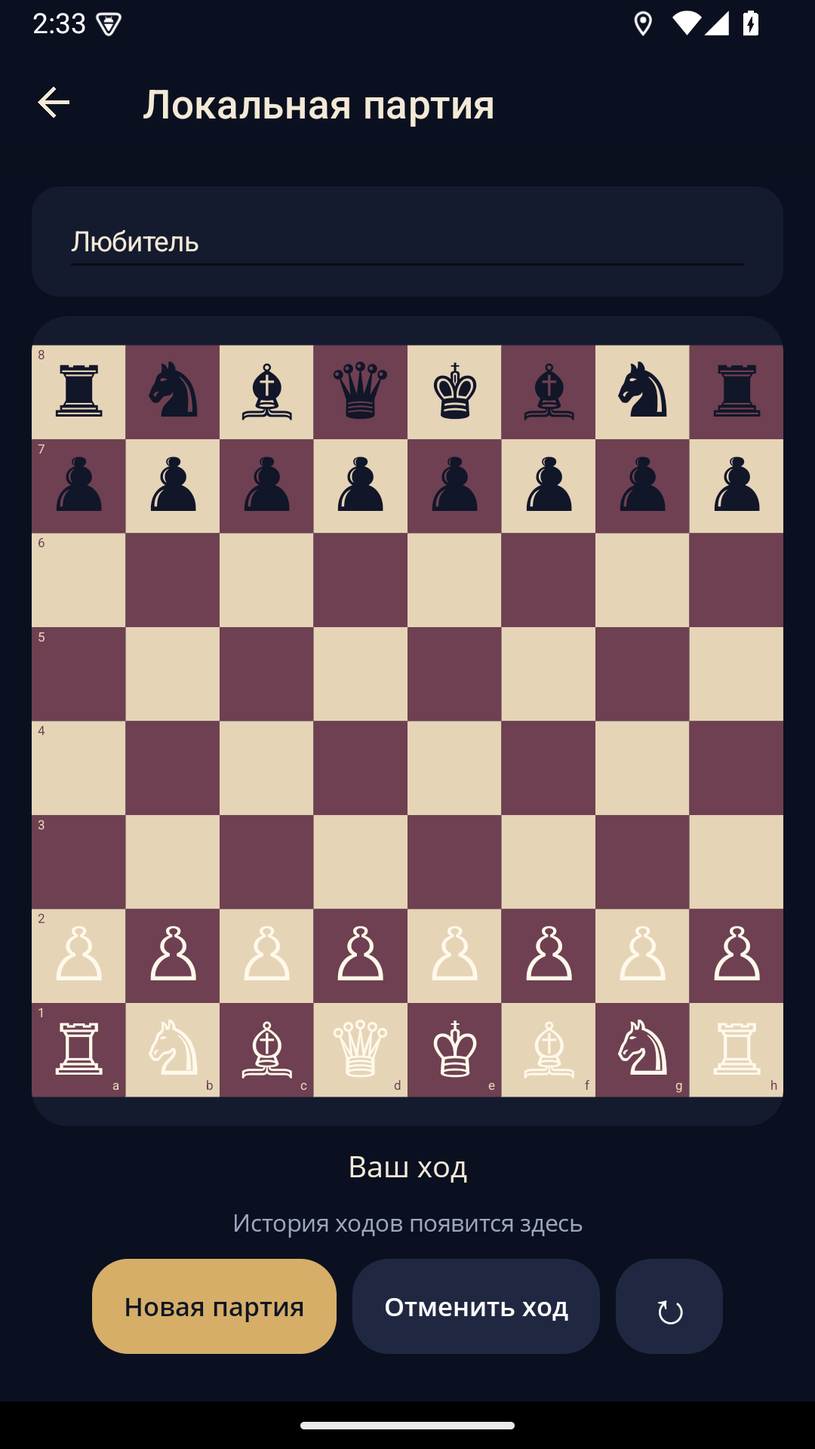
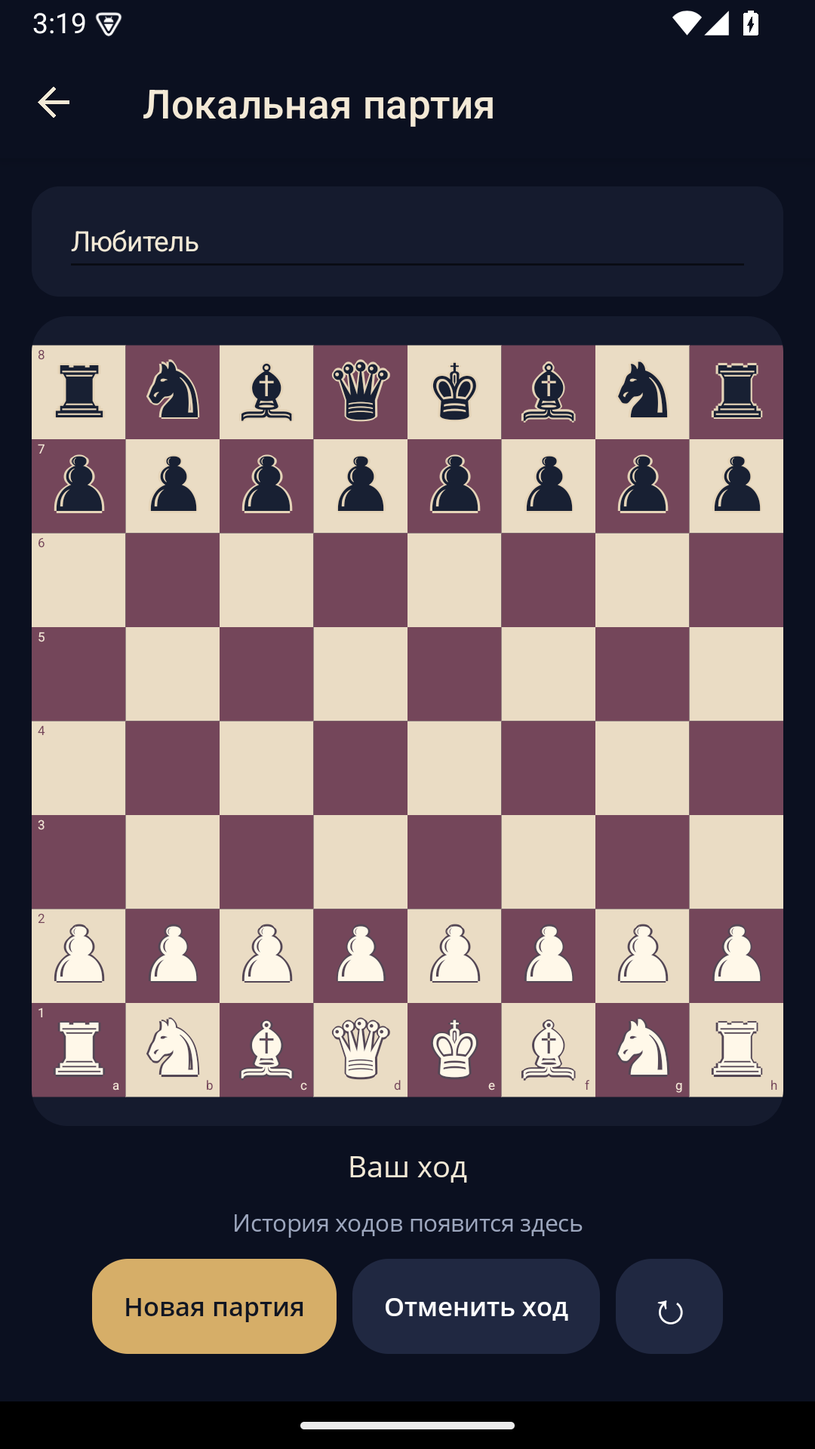
feat: add selectable piece and board themes

diff --git a/src/VelvetChess.App/Controls/ChessBoardView.cs b/src/VelvetChess.App/Controls/ChessBoardView.cs
@@ -12,6 +12,8 @@ public sealed class ChessBoardView : GraphicsView
     public ChessBoard Board { get; private set; } = new();
     public bool Flipped { get => _drawable.Flipped; set { _drawable.Flipped = value; Invalidate(); } }
     public bool ShowCoordinates { get => _drawable.ShowCoordinates; set { _drawable.ShowCoordinates = value; Invalidate(); } }
+    public PieceTheme PieceTheme { get => _drawable.PieceTheme; set { _drawable.PieceTheme = value; Invalidate(); } }
+    public BoardTheme BoardTheme { get => _drawable.BoardTheme; set { _drawable.BoardTheme = value; Invalidate(); } }
     public bool InputEnabled { get; set; } = true;
     public event EventHandler<Move>? MoveRequested;
 
@@ -25,6 +27,13 @@ public sealed class ChessBoardView : GraphicsView
     }
 
     public void SetBoard(ChessBoard board) { Board = board; ClearSelection(); }
+    public void SetAppearance(PieceTheme pieces, BoardTheme board)
+    {
+        _drawable.PieceTheme = pieces;
+        _drawable.BoardTheme = board;
+        Invalidate();
+    }
+
     public void ClearSelection() { _selected = -1; _moves = []; Invalidate(); }
 
     private void OnTap(object? sender, TouchEventArgs args)
@@ -49,49 +58,118 @@ public sealed class ChessBoardView : GraphicsView
 
     private sealed class BoardDrawable(Func<ChessBoard> board, Func<int> selected, Func<IReadOnlyList<Move>> moves) : IDrawable
     {
+        private sealed record Palette(string Light, string Dark, string Frame, string Coordinate, string Selection, string Move, string Capture);
+
+        private static readonly IReadOnlyDictionary<BoardTheme, Palette> Palettes = new Dictionary<BoardTheme, Palette>
+        {
+            [BoardTheme.Velvet] = new("#EADCC4", "#74465A", "#151B2E", "#F4E9D8", "#E7B95B", "#28364A", "#A51C30"),
+            [BoardTheme.Walnut] = new("#F0D9B5", "#B58863", "#3A251B", "#FFF1D6", "#F6C453", "#34495E", "#A93226"),
+            [BoardTheme.Forest] = new("#E8EDCF", "#769656", "#24342A", "#F4F7E8", "#F2C94C", "#29483A", "#A33C35"),
+            [BoardTheme.Ocean] = new("#DCEAF2", "#5C86A3", "#182A3A", "#F1F8FC", "#FFD166", "#244A65", "#B33A4A"),
+            [BoardTheme.Graphite] = new("#D8DAE0", "#666C79", "#202329", "#F5F6F8", "#E0B857", "#343A46", "#A63B4B")
+        };
+
         public bool Flipped { get; set; }
         public bool ShowCoordinates { get; set; } = true;
-        private static readonly Color Light = Color.FromArgb("#E6D4B7");
-        private static readonly Color Dark = Color.FromArgb("#6E4051");
+        public PieceTheme PieceTheme { get; set; } = PieceTheme.Tournament;
+        public BoardTheme BoardTheme { get; set; } = BoardTheme.Velvet;
 
         public void Draw(ICanvas canvas, RectF dirtyRect)
         {
+            var palette = Palettes.GetValueOrDefault(BoardTheme, Palettes[BoardTheme.Velvet]);
             var side = Math.Min(dirtyRect.Width, dirtyRect.Height); var cell = side / 8;
             var ox = (dirtyRect.Width - side) / 2; var oy = (dirtyRect.Height - side) / 2;
-            canvas.FillColor = Color.FromArgb("#151B2E"); canvas.FillRectangle(dirtyRect);
+            canvas.FillColor = Color.FromArgb(palette.Frame); canvas.FillRectangle(dirtyRect);
             for (var shownRank = 0; shownRank < 8; shownRank++)
             for (var shownFile = 0; shownFile < 8; shownFile++)
             {
                 var file = Flipped ? 7 - shownFile : shownFile; var rank = Flipped ? shownRank : 7 - shownRank;
                 var square = rank * 8 + file; var rect = new RectF(ox + shownFile * cell, oy + shownRank * cell, cell, cell);
-                canvas.FillColor = (file + rank) % 2 == 0 ? Dark : Light; canvas.FillRectangle(rect);
-                if (square == selected()) { canvas.FillColor = Color.FromArgb("#99E2B85A"); canvas.FillRectangle(rect); }
+                var isDark = (file + rank) % 2 == 0;
+                canvas.FillColor = Color.FromArgb(isDark ? palette.Dark : palette.Light); canvas.FillRectangle(rect);
+                if (square == selected()) { canvas.FillColor = Color.FromArgb($"99{palette.Selection[1..]}"); canvas.FillRectangle(rect); }
                 if (moves().Any(m => m.To == square))
                 {
-                    canvas.FillColor = board()[square].IsNone ? Color.FromArgb("#88303A49") : Color.FromArgb("#88A51C30");
-                    canvas.FillCircle(rect.Center, board()[square].IsNone ? cell * .12f : cell * .42f);
+                    var occupied = !board()[square].IsNone;
+                    canvas.FillColor = Color.FromArgb($"88{(occupied ? palette.Capture : palette.Move)[1..]}");
+                    canvas.FillCircle(rect.Center, occupied ? cell * .42f : cell * .12f);
                 }
                 var piece = board()[square];
-                if (!piece.IsNone)
-                {
-                    canvas.FontColor = piece.Color == PieceColor.White ? Color.FromArgb("#FFF9EB") : Color.FromArgb("#111629");
-                    canvas.FontSize = cell * .76f; canvas.Font = new Microsoft.Maui.Graphics.Font("ChessPieces");
-                    canvas.DrawString(Symbol(piece), rect, HorizontalAlignment.Center, VerticalAlignment.Center);
-                }
-                if (ShowCoordinates)
-                {
-                    canvas.Font = new Microsoft.Maui.Graphics.Font("OpenSansSemibold");
-                    canvas.FontSize = cell * .14f;
-                    canvas.FontColor = (file + rank) % 2 == 0 ? Light : Dark;
-                    if (shownFile == 0)
-                        canvas.DrawString((rank + 1).ToString(), rect.X + 3, rect.Y + 1, cell - 5, cell, HorizontalAlignment.Left, VerticalAlignment.Top);
-                    if (shownRank == 7)
-                        canvas.DrawString(((char)('a' + file)).ToString(), rect.X + 2, rect.Y, cell - 5, cell - 2, HorizontalAlignment.Right, VerticalAlignment.Bottom);
-                }
+                if (!piece.IsNone) DrawPiece(canvas, piece, rect, cell);
+                if (ShowCoordinates) DrawCoordinates(canvas, rect, cell, file, rank, shownFile, shownRank, isDark, palette);
             }
         }
 
-        private static string Symbol(Piece piece) => (piece.Color, piece.Type) switch
+        private void DrawPiece(ICanvas canvas, Piece piece, RectF rect, float cell)
+        {
+            var white = piece.Color == PieceColor.White;
+            switch (PieceTheme)
+            {
+                case PieceTheme.Classic:
+                    DrawGlyph(canvas, ClassicSymbol(piece), rect, cell * .76f, white ? "#FFF9EB" : "#111629", "#4A3340", cell * .018f);
+                    break;
+                case PieceTheme.Silhouette:
+                    DrawGlyph(canvas, SolidSymbol(piece.Type), rect, cell * .75f, white ? "#F8F1E4" : "#202637", white ? "#6B5C50" : "#0A0E18", cell * .012f);
+                    break;
+                case PieceTheme.Royal:
+                    canvas.FillColor = Color.FromArgb(white ? "#FFF4D8" : "#1A2440");
+                    canvas.FillCircle(rect.Center, cell * .38f);
+                    canvas.StrokeColor = Color.FromArgb("#C89B45"); canvas.StrokeSize = Math.Max(1, cell * .025f);
+                    canvas.DrawCircle(rect.Center, cell * .38f);
+                    DrawGlyph(canvas, SolidSymbol(piece.Type), rect, cell * .62f, white ? "#7A4F22" : "#E7C576", white ? "#FFF8E7" : "#11182B", cell * .012f);
+                    break;
+                case PieceTheme.Minimal:
+                    canvas.FillColor = Color.FromArgb(white ? "#FAF7F0" : "#202737");
+                    canvas.FillCircle(rect.Center, cell * .35f);
+                    canvas.StrokeColor = Color.FromArgb(white ? "#394152" : "#F1D9A3"); canvas.StrokeSize = Math.Max(1, cell * .022f);
+                    canvas.DrawCircle(rect.Center, cell * .35f);
+                    canvas.Font = new Microsoft.Maui.Graphics.Font("OpenSansSemibold");
+                    canvas.FontSize = cell * .38f; canvas.FontColor = Color.FromArgb(white ? "#283144" : "#F8E7BF");
+                    canvas.DrawString(PieceLetter(piece.Type), rect, HorizontalAlignment.Center, VerticalAlignment.Center);
+                    break;
+                default:
+                    // Both colours use the same solid glyph geometry, giving the set a consistent weight.
+                    DrawGlyph(canvas, SolidSymbol(piece.Type), rect, cell * .77f, white ? "#FFF8E9" : "#182033", white ? "#544755" : "#E5D4B8", cell * .022f);
+                    break;
+            }
+        }
+
+        private static void DrawGlyph(ICanvas canvas, string glyph, RectF rect, float size, string fill, string outline, float offset)
+        {
+            canvas.Font = new Microsoft.Maui.Graphics.Font("ChessPieces"); canvas.FontSize = size;
+            if (offset > 0)
+            {
+                canvas.FontColor = Color.FromArgb(outline);
+                foreach (var (dx, dy) in new[] { (-offset, 0f), (offset, 0f), (0f, -offset), (0f, offset) })
+                    canvas.DrawString(glyph, new RectF(rect.X + dx, rect.Y + dy, rect.Width, rect.Height), HorizontalAlignment.Center, VerticalAlignment.Center);
+            }
+            canvas.FontColor = Color.FromArgb(fill);
+            canvas.DrawString(glyph, rect, HorizontalAlignment.Center, VerticalAlignment.Center);
+        }
+
+        private static void DrawCoordinates(ICanvas canvas, RectF rect, float cell, int file, int rank, int shownFile, int shownRank, bool isDark, Palette palette)
+        {
+            canvas.Font = new Microsoft.Maui.Graphics.Font("OpenSansSemibold"); canvas.FontSize = cell * .14f;
+            canvas.FontColor = Color.FromArgb(isDark ? palette.Coordinate : palette.Dark);
+            if (shownFile == 0)
+                canvas.DrawString((rank + 1).ToString(), rect.X + 3, rect.Y + 1, cell - 5, cell, HorizontalAlignment.Left, VerticalAlignment.Top);
+            if (shownRank == 7)
+                canvas.DrawString(((char)('a' + file)).ToString(), rect.X + 2, rect.Y, cell - 5, cell - 2, HorizontalAlignment.Right, VerticalAlignment.Bottom);
+        }
+
+        private static string SolidSymbol(PieceType type) => type switch
+        {
+            PieceType.King => "♚", PieceType.Queen => "♛", PieceType.Rook => "♜", PieceType.Bishop => "♝",
+            PieceType.Knight => "♞", PieceType.Pawn => "♟", _ => ""
+        };
+
+        private static string PieceLetter(PieceType type) => type switch
+        {
+            PieceType.King => "K", PieceType.Queen => "Q", PieceType.Rook => "R", PieceType.Bishop => "B",
+            PieceType.Knight => "N", PieceType.Pawn => "P", _ => ""
+        };
+
+        private static string ClassicSymbol(Piece piece) => (piece.Color, piece.Type) switch
         {
             (PieceColor.White, PieceType.King) => "♔", (PieceColor.White, PieceType.Queen) => "♕", (PieceColor.White, PieceType.Rook) => "♖",
             (PieceColor.White, PieceType.Bishop) => "♗", (PieceColor.White, PieceType.Knight) => "♘", (PieceColor.White, PieceType.Pawn) => "♙",

diff --git a/src/VelvetChess.App/Pages/SettingsPage.cs b/src/VelvetChess.App/Pages/SettingsPage.cs
@@ -1,4 +1,6 @@
 using VelvetChess.App.Services;
+using VelvetChess.App.Controls;
+using VelvetChess.Core.Model;
 
 namespace VelvetChess.App.Pages;
 
@@ -10,7 +12,25 @@ public sealed class SettingsPage : ContentPage
     {
         BackgroundColor = Color.FromArgb("#0B1020");
         _state = state; Title = "Настройки";
-        var coordinates = SettingSwitch("Координаты доски", "Показывать буквы и цифры у полей", state.ShowCoordinates, value => state.ShowCoordinates = value);
+        var preview = new ChessBoardView { HeightRequest = 285, InputEnabled = false, ShowCoordinates = state.ShowCoordinates };
+        preview.SetAppearance(state.PieceTheme, state.BoardTheme);
+        var pieceDescription = new Label { Text = AppearanceCatalog.PieceDescription(state.PieceTheme), FontSize = 12, TextColor = Color.FromArgb("#9DA7BE") };
+        var piecePicker = AppearancePicker("Набор фигур", AppearanceCatalog.PieceNames, (int)state.PieceTheme);
+        var boardPicker = AppearancePicker("Оформление доски", AppearanceCatalog.BoardNames, (int)state.BoardTheme);
+        piecePicker.SelectedIndexChanged += (_, _) =>
+        {
+            if (piecePicker.SelectedIndex < 0) return;
+            state.PieceTheme = (PieceTheme)piecePicker.SelectedIndex;
+            pieceDescription.Text = AppearanceCatalog.PieceDescription(state.PieceTheme);
+            preview.PieceTheme = state.PieceTheme;
+        };
+        boardPicker.SelectedIndexChanged += (_, _) =>
+        {
+            if (boardPicker.SelectedIndex < 0) return;
+            state.BoardTheme = (BoardTheme)boardPicker.SelectedIndex;
+            preview.BoardTheme = state.BoardTheme;
+        };
+        var coordinates = SettingSwitch("Координаты доски", "Показывать буквы и цифры у полей", state.ShowCoordinates, value => { state.ShowCoordinates = value; preview.ShowCoordinates = value; });
         var haptics = SettingSwitch("Тактильный отклик", "Короткий отклик после хода", state.HapticsEnabled, value => state.HapticsEnabled = value);
         var confirmation = SettingSwitch("Подтверждать новую партию", "Защита от случайной потери текущей позиции", state.ConfirmNewGame, value => state.ConfirmNewGame = value);
         var reset = new Button { Text = "Сбросить прогресс", BackgroundColor = Color.FromArgb("#6E183E"), TextColor = Colors.White };
@@ -27,6 +47,10 @@ public sealed class SettingsPage : ContentPage
         Content = new ScrollView { Content = new VerticalStackLayout { Padding = 20, Spacing = 14, Children =
         {
             new Label { Text = "Игра", FontSize = 25, FontFamily = "OpenSansSemibold" },
+            new Label { Text = "Оформление", TextColor = Color.FromArgb("#D6AE68"), CharacterSpacing = 1.2, FontSize = 12 },
+            new Border { StrokeThickness = 0, StrokeShape = new Microsoft.Maui.Controls.Shapes.RoundRectangle { CornerRadius = 18 }, Content = preview },
+            new Border { Padding = new Thickness(16,8), BackgroundColor = Color.FromArgb("#151B2E"), StrokeThickness = 0, StrokeShape = new Microsoft.Maui.Controls.Shapes.RoundRectangle { CornerRadius = 16 }, Content = new VerticalStackLayout { Spacing = 2, Children = { piecePicker, pieceDescription } } },
+            new Border { Padding = new Thickness(16,8), BackgroundColor = Color.FromArgb("#151B2E"), StrokeThickness = 0, StrokeShape = new Microsoft.Maui.Controls.Shapes.RoundRectangle { CornerRadius = 16 }, Content = boardPicker },
             coordinates, haptics, confirmation,
             new Label { Text = "Данные", FontSize = 25, FontFamily = "OpenSansSemibold", Margin = new Thickness(0,12,0,0) },
             new Border { Padding = 16, BackgroundColor = Color.FromArgb("#151B2E"), StrokeThickness = 0, StrokeShape = new Microsoft.Maui.Controls.Shapes.RoundRectangle { CornerRadius = 16 }, Content = new Label { Text = "Версия 1.0 работает офлайн. Персональные данные, реклама и аналитические идентификаторы не собираются. Партии и прогресс хранятся только на этом устройстве.", TextColor = Color.FromArgb("#9DA7BE"), LineHeight = 1.35 } },
@@ -35,6 +59,14 @@ public sealed class SettingsPage : ContentPage
             reset,
             new Label { Text = $"Шахматы Velvet · версия {version}\nШахматные задачи: Lichess CC0\nФигуры: Noto Sans Symbols 2 (OFL 1.1)", FontSize = 12, TextColor = Color.FromArgb("#69738A"), HorizontalTextAlignment = TextAlignment.Center, Margin = new Thickness(0,18) }
         }}};
+    }
+
+    private static Picker AppearancePicker(string title, IReadOnlyList<string> names, int selected)
+    {
+        var picker = new Picker { Title = title, TextColor = Color.FromArgb("#F3E9D6"), TitleColor = Color.FromArgb("#9DA7BE"), FontFamily = "OpenSansSemibold" };
+        foreach (var name in names) picker.Items.Add(name);
+        picker.SelectedIndex = Math.Clamp(selected, 0, names.Count - 1);
+        return picker;
     }
 
     private async Task OpenExternalAsync(string uri)

diff --git a/tests/VelvetChess.Core.Tests/UserStateTests.cs b/tests/VelvetChess.Core.Tests/UserStateTests.cs
@@ -45,7 +45,9 @@ public sealed class UserStateTests
             Difficulty = Difficulty.Expert,
             ShowCoordinates = false,
             HapticsEnabled = false,
-            ConfirmNewGame = false
+            ConfirmNewGame = false,
+            PieceTheme = PieceTheme.Royal,
+            BoardTheme = BoardTheme.Forest
         };
         state.RecordFinishedGame(new(GameOutcome.Checkmate, PieceColor.White));
         state.RecordFinishedGame(new(GameOutcome.Stalemate));
@@ -57,6 +59,7 @@ public sealed class UserStateTests
         Assert.Empty(state.CompletedPuzzles);
         Assert.Equal(Difficulty.Expert, state.Difficulty);
         Assert.False(state.ShowCoordinates); Assert.False(state.HapticsEnabled); Assert.False(state.ConfirmNewGame);
+        Assert.Equal(PieceTheme.Royal, state.PieceTheme); Assert.Equal(BoardTheme.Forest, state.BoardTheme);
     }
 
     [Fact]
@@ -65,9 +68,11 @@ public sealed class UserStateTests
         var memory = new MemoryStore();
         memory.SetInt("stats.games.v1", -3); memory.SetInt("stats.wins.v1", 99); memory.SetInt("stats.draws.v1", 99);
         memory.SetInt("game.difficulty.v1", 99);
+        memory.SetInt("settings.pieceTheme.v1", 99); memory.SetInt("settings.boardTheme.v1", -4);
         var state = new UserStateStore(memory);
         Assert.Equal((0, 0, 0), (state.GamesPlayed, state.Wins, state.Draws));
         Assert.Equal(Difficulty.Expert, state.Difficulty);
+        Assert.Equal(PieceTheme.Minimal, state.PieceTheme); Assert.Equal(BoardTheme.Velvet, state.BoardTheme);
     }
 
     private sealed class MemoryStore : IKeyValueStore

diff --git a/src/VelvetChess.Core/Persistence/UserStateStore.cs b/src/VelvetChess.Core/Persistence/UserStateStore.cs
@@ -17,6 +17,8 @@ public sealed class UserStateStore(IKeyValueStore storage)
     private const string CoordinatesKey = "settings.coordinates.v1";
     private const string HapticsKey = "settings.haptics.v1";
     private const string ConfirmNewGameKey = "settings.confirmNewGame.v1";
+    private const string PieceThemeKey = "settings.pieceTheme.v1";
+    private const string BoardThemeKey = "settings.boardTheme.v1";
 
     public Difficulty Difficulty
     {
@@ -27,6 +29,16 @@ public sealed class UserStateStore(IKeyValueStore storage)
     public bool ShowCoordinates { get => storage.GetBool(CoordinatesKey, true); set => storage.SetBool(CoordinatesKey, value); }
     public bool HapticsEnabled { get => storage.GetBool(HapticsKey, true); set => storage.SetBool(HapticsKey, value); }
     public bool ConfirmNewGame { get => storage.GetBool(ConfirmNewGameKey, true); set => storage.SetBool(ConfirmNewGameKey, value); }
+    public PieceTheme PieceTheme
+    {
+        get => (PieceTheme)Math.Clamp(storage.GetInt(PieceThemeKey, (int)PieceTheme.Tournament), 0, 4);
+        set => storage.SetInt(PieceThemeKey, Math.Clamp((int)value, 0, 4));
+    }
+    public BoardTheme BoardTheme
+    {
+        get => (BoardTheme)Math.Clamp(storage.GetInt(BoardThemeKey, (int)BoardTheme.Velvet), 0, 4);
+        set => storage.SetInt(BoardThemeKey, Math.Clamp((int)value, 0, 4));
+    }
     public bool HasSavedGame => !string.IsNullOrWhiteSpace(storage.GetString(SavedMovesKey));
     public int GamesPlayed => Math.Max(0, storage.GetInt(GamesKey));
     public int Wins => Math.Clamp(storage.GetInt(WinsKey), 0, GamesPlayed);

diff --git a/src/VelvetChess.App/Pages/PuzzlePlayPage.cs b/src/VelvetChess.App/Pages/PuzzlePlayPage.cs
@@ -22,6 +22,7 @@ public sealed class PuzzlePlayPage : ContentPage, IQueryAttributable
         BackgroundColor = Color.FromArgb("#0B1020");
         _repository = repository; _state = state; Title = "Решение задачи";
         _board.ShowCoordinates = state.ShowCoordinates;
+        _board.SetAppearance(state.PieceTheme, state.BoardTheme);
         _board.MoveRequested += OnMove;
         _hint.Clicked += async (_, _) => { if (_session is not null) await DisplayAlert("Подсказка", _session.Puzzle.Hint, "Понятно"); };
         _solution.Clicked += async (_, _) => await RevealSolutionAsync();
@@ -47,7 +48,7 @@ public sealed class PuzzlePlayPage : ContentPage, IQueryAttributable
         if (puzzle is null) { _message.Text = "Задача не найдена."; return; }
         _session = new PuzzleSession(puzzle); _title.Text = puzzle.Title;
         _message.Text = $"Сложность: {puzzle.Rating} · {puzzle.Theme}"; _next.IsVisible = false; _hint.IsVisible = true; _solution.IsVisible = true;
-        _board.InputEnabled = true; _board.ShowCoordinates = _state.ShowCoordinates; _board.Flipped = puzzle.SideToMove == PieceColor.Black; _board.SetBoard(_session.Board);
+        _board.InputEnabled = true; _board.ShowCoordinates = _state.ShowCoordinates; _board.SetAppearance(_state.PieceTheme, _state.BoardTheme); _board.Flipped = puzzle.SideToMove == PieceColor.Black; _board.SetBoard(_session.Board);
     }
 
     private async void OnMove(object? sender, Move move)

diff --git a/src/VelvetChess.App/Pages/GamePage.cs b/src/VelvetChess.App/Pages/GamePage.cs
@@ -26,7 +26,7 @@ public sealed class GamePage : ContentPage
         foreach (var level in Enum.GetValues<Difficulty>()) _difficulty.Items.Add(DifficultyProfile.For(level).DisplayName);
         _difficulty.SelectedIndex = (int)state.Difficulty;
         _difficulty.SelectedIndexChanged += (_, _) => { if (_difficulty.SelectedIndex >= 0) _state.Difficulty = (Difficulty)_difficulty.SelectedIndex; };
-        _boardView.ShowCoordinates = state.ShowCoordinates; _boardView.SetBoard(_session.Board); _boardView.MoveRequested += OnMoveRequested;
+        _boardView.ShowCoordinates = state.ShowCoordinates; _boardView.SetAppearance(state.PieceTheme, state.BoardTheme); _boardView.SetBoard(_session.Board); _boardView.MoveRequested += OnMoveRequested;
         var restart = new Button { Text = "Новая партия", HeightRequest = 48, FontSize = 13 };
         restart.Clicked += async (_, _) => await ConfirmNewGameAsync();
         _undo.Clicked += (_, _) => UndoTurn();
@@ -47,6 +47,7 @@ public sealed class GamePage : ContentPage
     {
         base.OnAppearing();
         _boardView.ShowCoordinates = _state.ShowCoordinates;
+        _boardView.SetAppearance(_state.PieceTheme, _state.BoardTheme);
         if (_session.Board.SideToMove == PieceColor.Black && !_session.Board.GetStatus().IsFinished) _ = RunAiAsync();
     }
 

diff --git a/src/VelvetChess.App/Services/AppearanceCatalog.cs b/src/VelvetChess.App/Services/AppearanceCatalog.cs
@@ -1,0 +1,19 @@
+using VelvetChess.Core.Model;
+
+namespace VelvetChess.App.Services;
+
+public static class AppearanceCatalog
+{
+    public static IReadOnlyList<string> PieceNames { get; } = ["Турнир", "Классика", "Силуэт", "Королевский", "Минимализм"];
+    public static IReadOnlyList<string> BoardNames { get; } = ["Velvet", "Орех", "Лес", "Океан", "Графит"];
+
+    public static string PieceDescription(PieceTheme theme) => theme switch
+    {
+        PieceTheme.Tournament => "Единые чёткие силуэты с контрастной окантовкой",
+        PieceTheme.Classic => "Традиционные контурные белые и цельные чёрные фигуры",
+        PieceTheme.Silhouette => "Спокойные цельные формы без лишних деталей",
+        PieceTheme.Royal => "Медальоны с золотыми акцентами",
+        PieceTheme.Minimal => "Лаконичные фишки с буквенными обозначениями",
+        _ => ""
+    };
+}

diff --git a/src/VelvetChess.App/Services/AppStateService.cs b/src/VelvetChess.App/Services/AppStateService.cs
@@ -13,6 +13,8 @@ public sealed class AppStateService
     public bool ShowCoordinates { get => _state.ShowCoordinates; set => _state.ShowCoordinates = value; }
     public bool HapticsEnabled { get => _state.HapticsEnabled; set => _state.HapticsEnabled = value; }
     public bool ConfirmNewGame { get => _state.ConfirmNewGame; set => _state.ConfirmNewGame = value; }
+    public PieceTheme PieceTheme { get => _state.PieceTheme; set => _state.PieceTheme = value; }
+    public BoardTheme BoardTheme { get => _state.BoardTheme; set => _state.BoardTheme = value; }
     public bool HasSavedGame => _state.HasSavedGame;
     public int GamesPlayed => _state.GamesPlayed;
     public int Wins => _state.Wins;

diff --git a/store/rustore/render_assets.py b/store/rustore/render_assets.py
@@ -121,7 +121,7 @@ privacy="Игра работает офлайн. Персональные дан
 for i,line in enumerate(wrap(d,privacy,850,29)): text(d,(94,1110+i*43),line,29,MUTED)
 button(d,1435,"Сбросить прогресс",BURGUNDY,"#FFFFFF")
 text(d,(W//2,1650),"Шахматы Velvet · версия 1.0.0",24,MUTED,False,"mm")
-save(img,"05_settings_privacy.png")
+save(img,"05_settings_appearance.png")
 
 # 06 — solved puzzle with the complete line.
 img=Image.new("RGB",(W,H),NAVY); d=ImageDraw.Draw(img); header(d,"Задача решена","Точная линия найдена")

diff --git a/src/VelvetChess.Core/Model/Appearance.cs b/src/VelvetChess.Core/Model/Appearance.cs
@@ -1,0 +1,19 @@
+namespace VelvetChess.Core.Model;
+
+public enum PieceTheme
+{
+    Tournament,
+    Classic,
+    Silhouette,
+    Royal,
+    Minimal
+}
+
+public enum BoardTheme
+{
+    Velvet,
+    Walnut,
+    Forest,
+    Ocean,
+    Graphite
+}

diff --git a/README.md b/README.md
@@ -12,8 +12,9 @@
 - Полные базовые правила шахмат: легальность хода, шах/мат/пат, рокировка, en passant, превращение, правило 50 ходов и недостаток материала.
 - 4 уровня ИИ с разной глубиной, случайностью и лимитом времени.
 - Автосохранение и продолжение партии, отмена полного хода и SAN-история.
+- Пять наборов фигур и пять цветовых тем доски с живым предпросмотром и сохранением выбора.
 - Настройки координат, тактильного отклика и подтверждений; безопасный сброс прогресса.
-- Отзывчивая доска на `GraphicsView`, без тяжёлых игровых движков.
+- Быстрая отзывчивая доска на `GraphicsView`, без тяжёлых игровых движков и растровых фигур.
 - 50 популярных задач Lichess, отобранных по популярности, с проверенными решениями в SAN, подсказками, показом ответа, рейтингом и сохранением прогресса.
 - Тёмный адаптивный интерфейс, фирменный арт, иконка и splash screen.
 - Контракты для будущего серверного онлайн-режима.

diff --git a/docs/QA.md b/docs/QA.md
@@ -13,6 +13,7 @@
 - Все 50 задач открываются; неверный ход не портит позицию; решение завершается.
 - Полная SAN-линия показывается после успеха; «Показать решение» открывает ответ, но не отмечает задачу решённой.
 - Решённые задачи, число попыток и общая статистика сохраняются после перезапуска.
+- Все пять наборов фигур и пять тем доски корректно отрисовываются; выбор применяется сразу и сохраняется после перезапуска.
 - Настройки координат, тактильного отклика и подтверждения новой партии применяются сразу и сохраняются после перезапуска.
 - Сброс прогресса удаляет сохранённую партию и статистику задач, но сохраняет пользовательские настройки.
 
